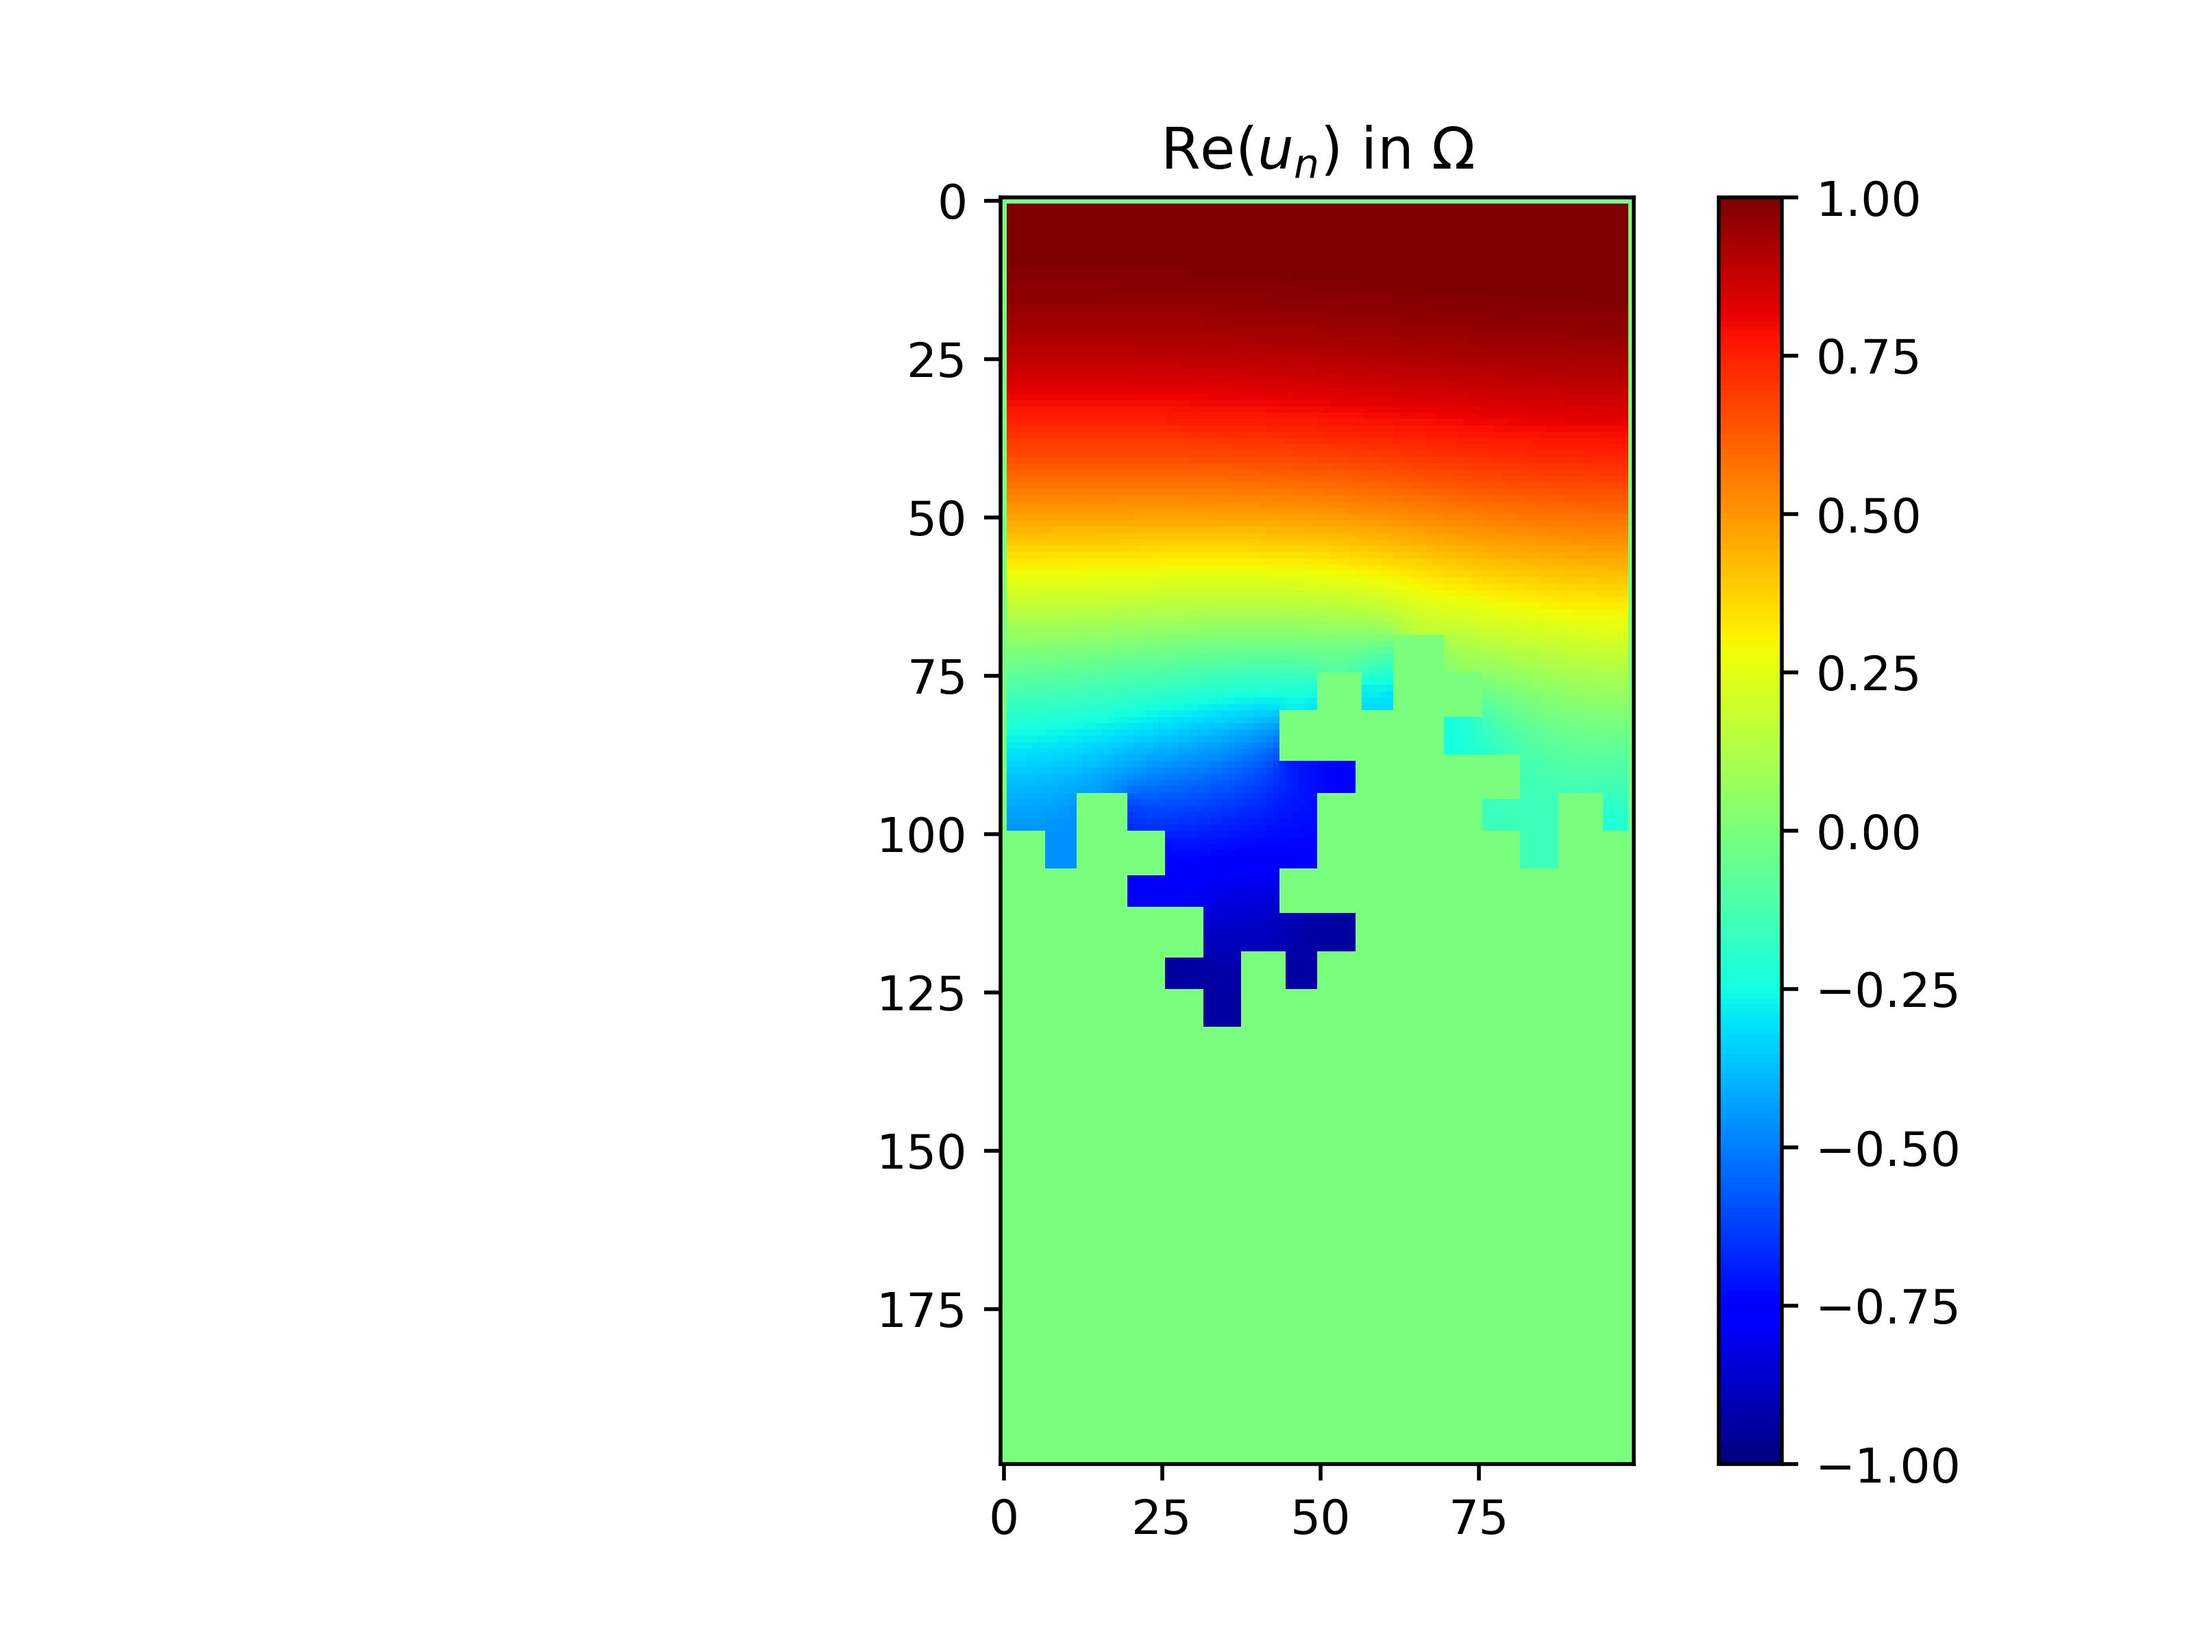
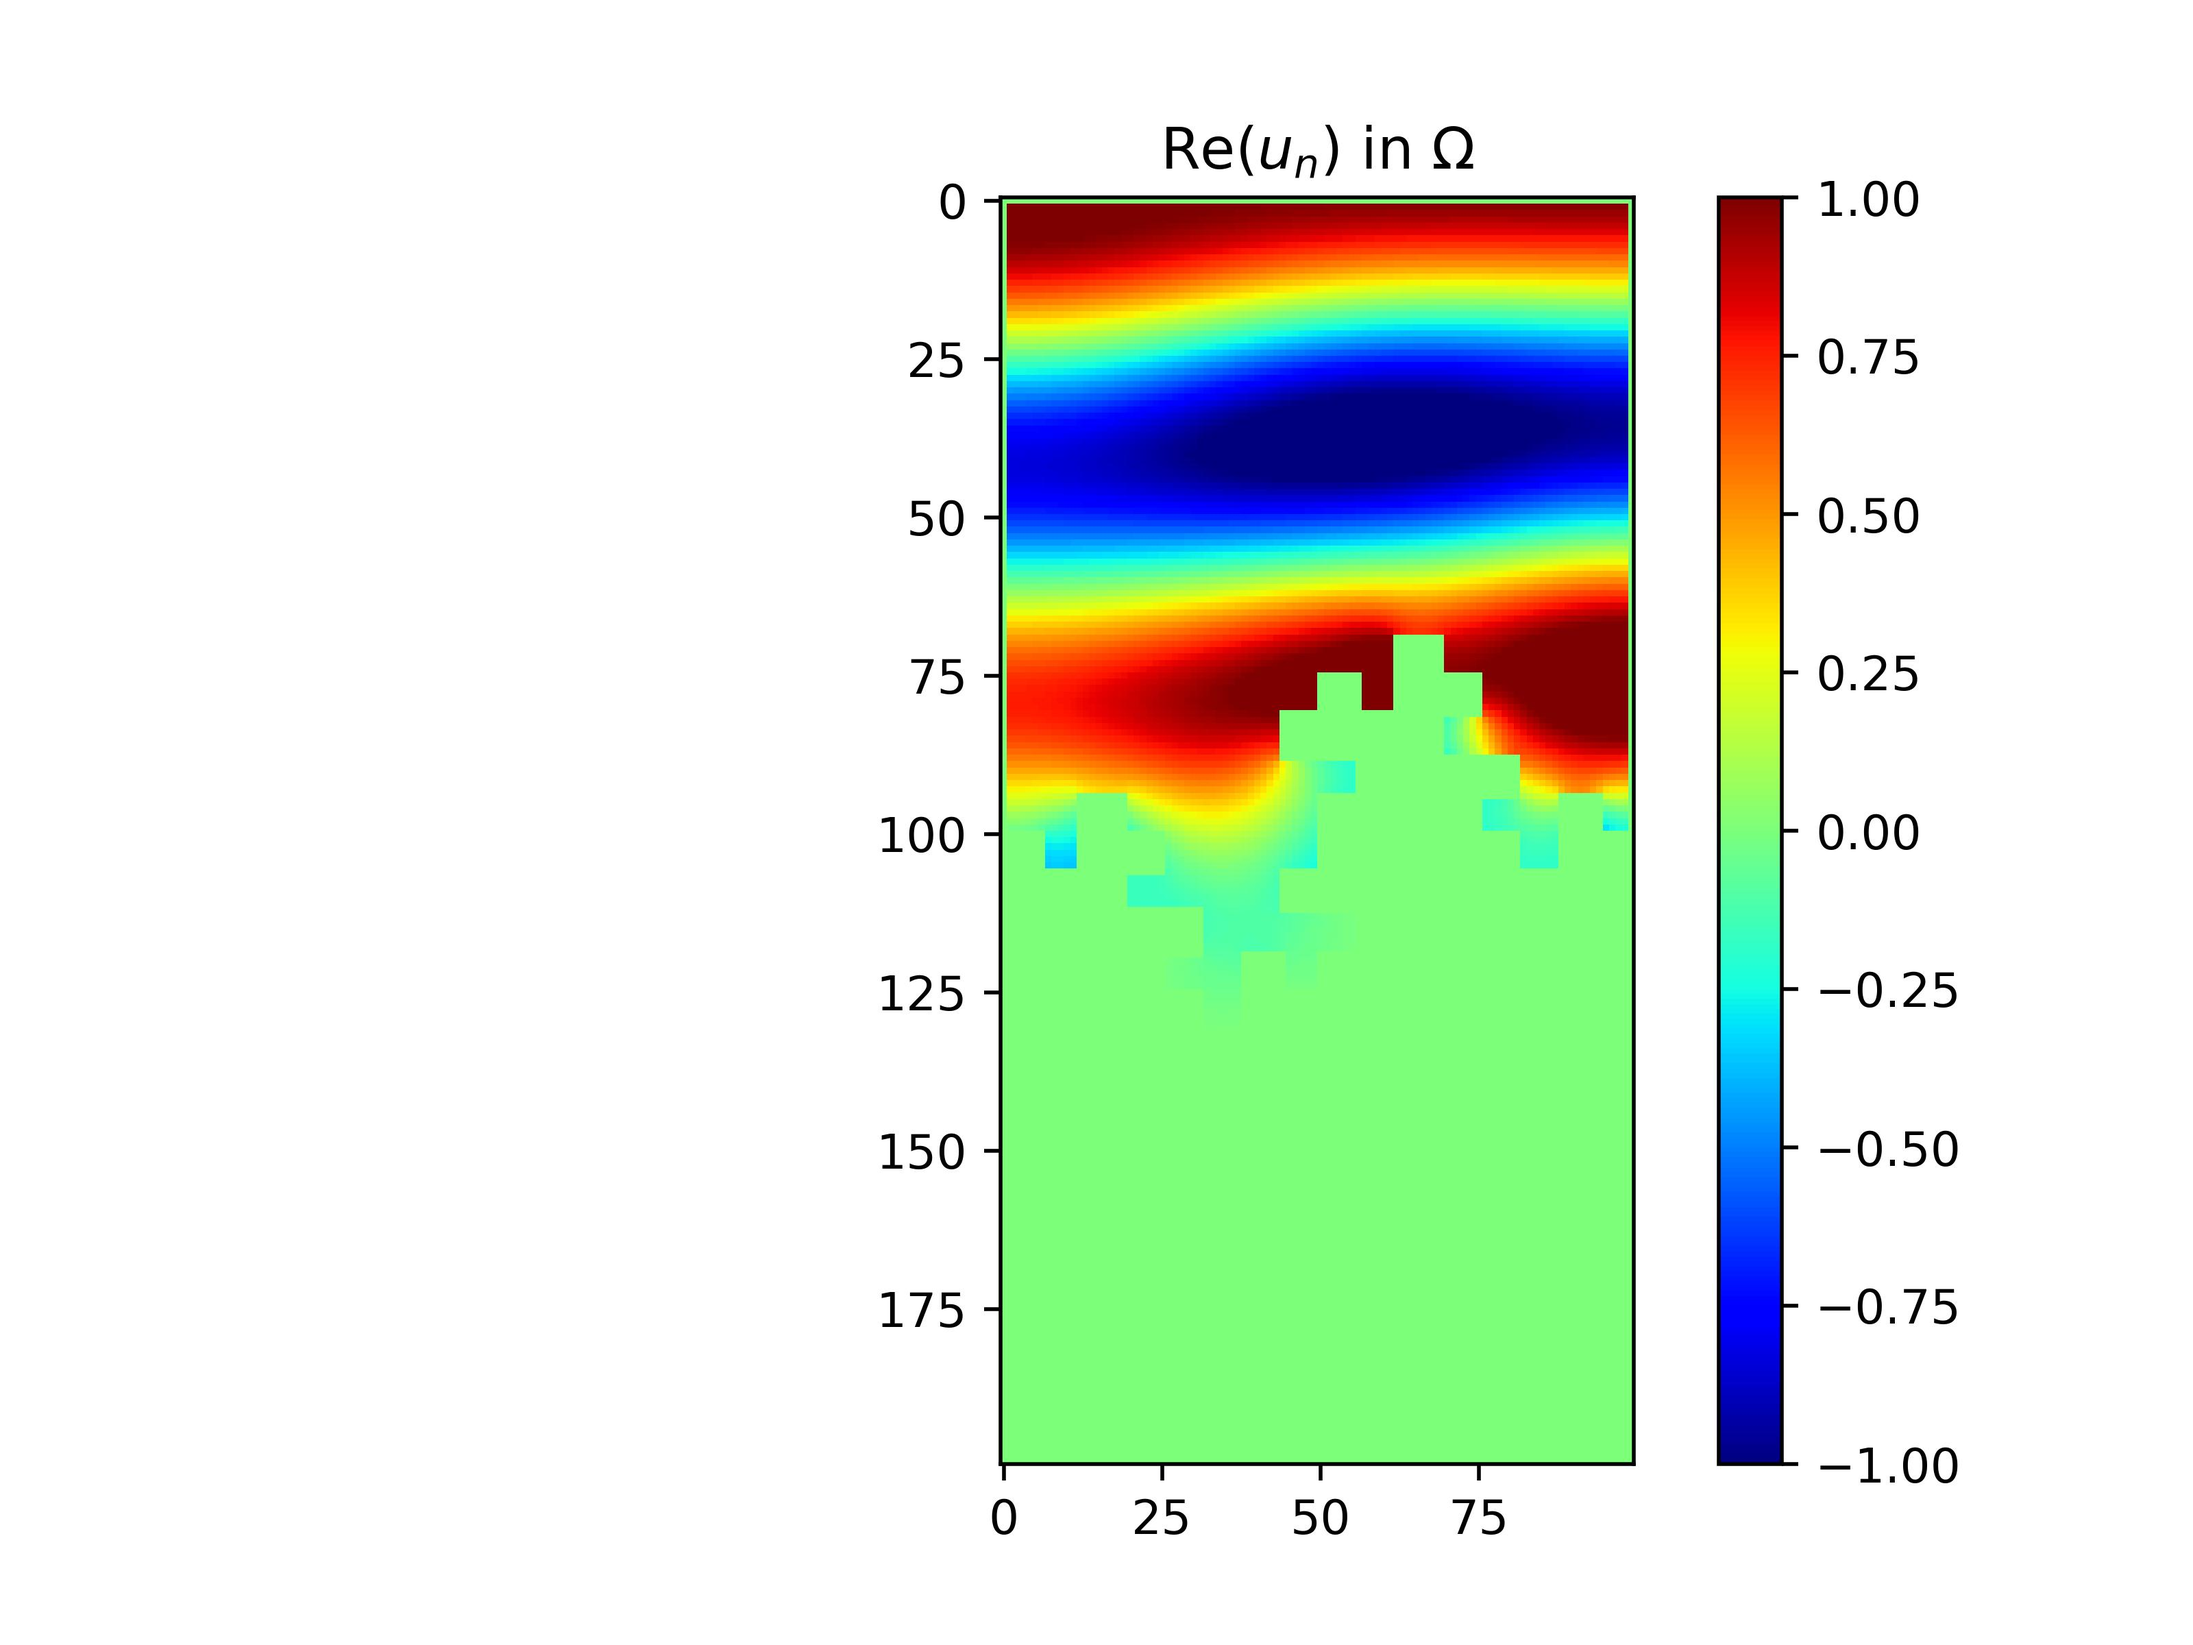
simulation ziyad

Changed region(s): [[0.4375, 0.125, 0.75, 0.625]]

diff --git a/src/main.py b/src/main.py
@@ -34,7 +34,7 @@ def computeVolume(chi, S):
 def initialize_random_chi(M, N, x, y, V_obj):
     chi = numpy.zeros((M, N), dtype=numpy.float64)
     val = 1.0
-    random_list = random.sample(range(1, 2*N), int(N*V_obj))
+    random_list = random.sample(range(0, len(x)-1), int(N*V_obj))
     for k in random_list:
         chi[int(y[k]), int(x[k])] = val
     return chi
@@ -84,7 +84,7 @@ def launch_simulation(N: int, level: int, spacestep: float, wavenumber: float, V
                            Alpha, mu, initial_chi, V_obj, wavenumber, S)
     
     #### Printing varialbes of interest
-
+    
     print("Energie de départ avec initial_chi:", minimization_algo.compute_objective_function(domain_omega, u_init, spacestep))
     print("Energie finale avec chi dans [0, 1]: ", minimization_algo.compute_objective_function(domain_omega, u_final, spacestep))
     print("Energie finale avec chi projeté dans {0,1}:", minimization_algo.compute_objective_function(domain_omega, u_final_projected, spacestep))
@@ -120,17 +120,17 @@ if __name__ == '__main__':
 
     # -- set parameters of the partial differential equation
 
-    frequence = 1000
+    frequence = 440
     omega = 2*numpy.pi*frequence
     # c = 343 # m/s
     wavenumber = omega/CELERITY                        # fréquence f = 200 environ donc w = 2*pi*f = 1200 et k = w/c avec c = 340m/s
 
     # material = 'Melamine'               # Matériau choisi 
 
-    V_obj = 0.5
+    V_obj = 0.8
     mu = 5
     # Alpha = 2.0 - 8.0 * 1j
-    # launch_simulation(N, level, spacestep, wavenumber, V_obj, mu)    
+    launch_simulation(N, level, spacestep, wavenumber, V_obj, mu, chi_init=0)    
 
     
 
@@ -139,12 +139,17 @@ if __name__ == '__main__':
     """
 
     """
-    V_obj_list = [0.02*i for i in range(1,3)]
-    liste_des_energies = [launch_simulation(N,level,spacestep,wavenumber,V_obj, mu)[-1] for V_obj in V_obj_list]
-
+    V_obj_list = [0.02*i for i in range(1,100)]
+    liste_energies_initiales = []
+    liste_energies_finales = []
+    for V_obj in V_obj_list:
+        energies = launch_simulation(N,level,spacestep,wavenumber,V_obj, mu) 
+        liste_energies_finales.append(energies[-1])
+        liste_energies_initiales.append(energies[0])
 
     matplotlib.pyplot.figure(figsize=(8, 5))
-    matplotlib.pyplot.plot(V_obj_list[:len(liste_des_energies)], liste_des_energies, marker='o', color='b', linestyle='-', linewidth=2, markersize=6)
+    matplotlib.pyplot.plot(V_obj_list[:len(liste_energies_finales)], liste_energies_finales, marker='o', color='b', linestyle='-', linewidth=2, markersize=3)
+    # matplotlib.pyplot.plot(V_obj_list[:len(liste_energies_finales)], liste_energies_initiales, marker='x', color='r', linestyle='-', linewidth=2, markersize=3)
 
     matplotlib.pyplot.xlabel("Densité de matériau (entre 0 et 1)", fontsize=12)
     matplotlib.pyplot.ylabel("Énergie minimale (après opti)", fontsize=12)
@@ -165,14 +170,22 @@ if __name__ == '__main__':
     """
 
     
-
-    freq_list = numpy.logspace(2, 3, 20)
+    """
+    freq_list = numpy.linspace(100, 1000, 100)
     omega_list = freq_list*2*numpy.pi
     wavenumber_list = omega_list/CELERITY
-    liste_energies_post_opti = [launch_simulation(N, level, spacestep, wavenumber, V_obj, mu)[-1] for wavenumber in wavenumber_list]
+
+    liste_energies_initiales = []
+    liste_energies_finales = []
+    for wavenumber in wavenumber_list:
+        energies = launch_simulation(N,level,spacestep,wavenumber,V_obj, mu) 
+        liste_energies_finales.append(energies[-1])
+        liste_energies_initiales.append(energies[0])
+
 
     matplotlib.pyplot.figure(figsize=(8, 5))
-    matplotlib.pyplot.plot(freq_list[:len(liste_energies_post_opti)], liste_energies_post_opti, marker='o', color='b', linestyle='-', linewidth=2, markersize=6)
+    matplotlib.pyplot.plot(freq_list[:len(liste_energies_finales)], liste_energies_finales, marker='o', color='b', linestyle='-', linewidth=2, markersize=3)
+    # matplotlib.pyplot.plot(freq_list[:len(liste_energies_finales)], liste_energies_initiales, marker='x', color='r', linestyle='-', linewidth=2, markersize=3)
 
     matplotlib.pyplot.xlabel("Fréquence de l'onde planaire en entrée", fontsize=12)
     matplotlib.pyplot.ylabel("Énergie minimale (après opti)", fontsize=12)
@@ -184,7 +197,23 @@ if __name__ == '__main__':
     # Afficher le graphique
     matplotlib.pyplot.savefig("energie_min_selon_frequence", dpi = 500)
 
+    """
 
+    """
+    3) Tentative :
+    Je vais essayer de lancer K fois l'algo avec un départ différent pour éviter de stuck dans un minimum local et voir ce que ca donne
+    """
 
+    """
+    liste_energies_initiales = []
+    liste_energies_finales = []
+    for _ in range(15):
+        energies = launch_simulation(N,level,spacestep,wavenumber,V_obj, mu, chi_init=1) 
+        liste_energies_finales.append(energies[-1])
+        liste_energies_initiales.append(energies[0])
 
-    
+ 
+    print(liste_energies_initiales)
+    print(liste_energies_finales)
+
+    """
